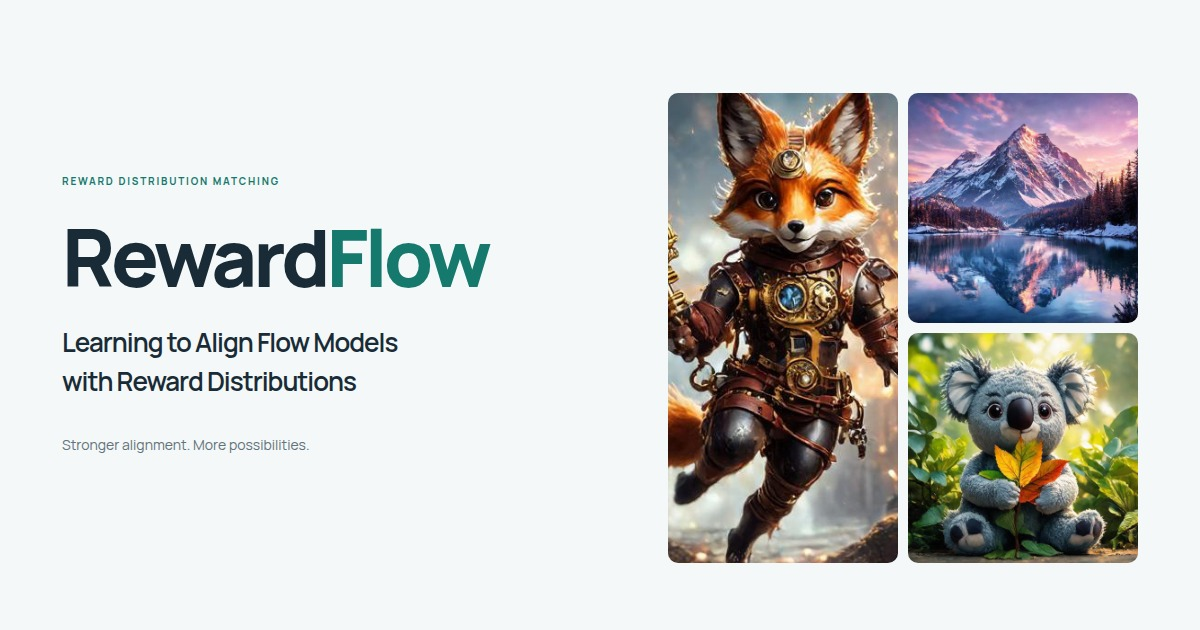
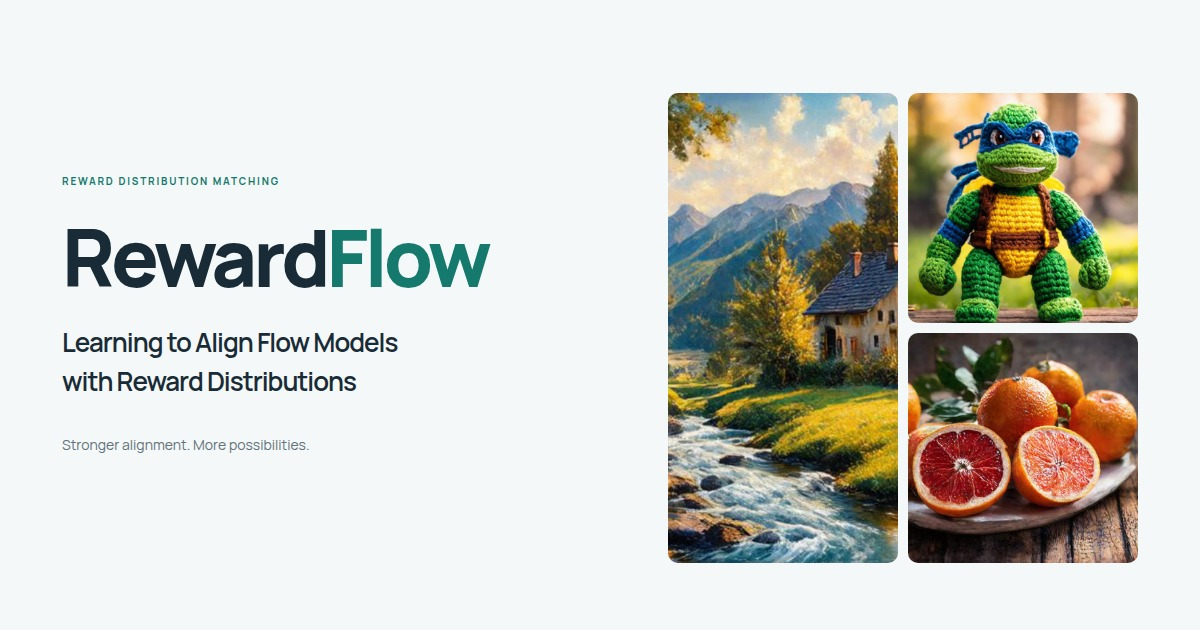
Move supplementary samples to hero and reorder comparison prompts

Changed region(s): [[0.555, 0.1206, 0.9558, 0.9048]]

diff --git a/index.html b/index.html
@@ -40,7 +40,7 @@
       <a class="wordmark" href="#top" aria-label="RewardFlow home"><svg class="brand-mark"><use href="#icon-flow"/></svg>Reward<span>Flow</span></a>
       <button class="menu-toggle" type="button" aria-label="Open navigation" aria-controls="main-nav" aria-expanded="false"><span></span><span></span></button>
       <nav id="main-nav" aria-label="Main navigation">
-        <a href="#overview">Overview</a><a href="#comparisons">Comparisons</a><a href="#method">Method</a><a href="#results">Results</a><a href="#gallery">Gallery</a>
+        <a href="#overview">Overview</a><a href="#comparisons">Comparisons</a><a href="#method">Method</a><a href="#results">Results</a>
       </nav>
       <a class="nav-paper" data-paper-link href="assets/paper/RewardFlow.pdf" target="_blank" rel="noopener">Read the paper <svg class="icon"><use href="#icon-diagonal"/></svg></a>
     </div>
@@ -67,11 +67,14 @@
       </div>
 
       <div class="hero-showcase container-wide" aria-label="Selected RewardFlow generations">
-        <button class="hero-image" data-lightbox="assets/images/fox-reward-2.jpg" data-caption="Steampunk fox · RewardFlow generation" aria-label="Enlarge the steampunk fox generation"><img src="assets/images/fox-reward-2.jpg" width="512" height="512" alt="A steampunk fox with brass gears and a golden key, leaping through a fantasy city" fetchpriority="high"><span>Imaginative detail <svg class="icon"><use href="#icon-expand"/></svg></span></button>
-        <button class="hero-image" data-lightbox="assets/images/mountain-reward-1.jpg" data-caption="Alpine lake · RewardFlow generation" aria-label="Enlarge the alpine lake generation"><img src="assets/images/mountain-reward-1.jpg" width="512" height="512" alt="A snow-capped mountain reflected in an alpine lake beneath a pink and violet sky" fetchpriority="high"><span>Vivid landscapes <svg class="icon"><use href="#icon-expand"/></svg></span></button>
-        <button class="hero-image hero-image-center" data-lightbox="assets/images/koala-reward-2.jpg" data-caption="Koala plush · RewardFlow generation" aria-label="Enlarge the koala generation"><img src="assets/images/koala-reward-2.jpg" width="512" height="512" alt="A soft gray koala plush holding a colorful leaf in lush green foliage" fetchpriority="high"><span>Natural textures <svg class="icon"><use href="#icon-expand"/></svg></span></button>
-        <button class="hero-image" data-lightbox="assets/images/cake-reward-2.jpg" data-caption="Orange almond cake · RewardFlow generation" aria-label="Enlarge the cake generation"><img src="assets/images/cake-reward-2.jpg" width="512" height="512" alt="Layered orange and almond cake with buttercream, citrus slices, and almonds" fetchpriority="high"><span>Fine-grained fidelity <svg class="icon"><use href="#icon-expand"/></svg></span></button>
-        <button class="hero-image" data-lightbox="assets/images/cottage.jpg" data-caption="Mountain cottage · RewardFlow generation from the supplementary gallery" aria-label="Enlarge the cottage generation"><img src="assets/images/cottage.jpg" width="681" height="680" alt="A sunlit mountain cottage beside a stream in a painterly landscape" fetchpriority="high"><span>Expressive styles <svg class="icon"><use href="#icon-expand"/></svg></span></button>
+        <button class="hero-image" data-lightbox="assets/images/cottage.jpg" data-caption="Mountain cottage · Supplementary RewardFlow sample" aria-label="Enlarge mountain cottage"><img src="assets/images/cottage.jpg" width="681" height="680" alt="Painterly cottage in a mountain valley with a sunlit stream" fetchpriority="high"><span>Worlds to wander <svg class="icon"><use href="#icon-expand"/></svg></span></button>
+        <button class="hero-image" data-lightbox="assets/images/knitted-turtle.jpg" data-caption="Knitted turtle · Supplementary RewardFlow sample" aria-label="Enlarge knitted turtle"><img src="assets/images/knitted-turtle.jpg" width="680" height="680" alt="Green and blue knitted turtle toy in warm sunlight" fetchpriority="high"><span>A softer kind of detail <svg class="icon"><use href="#icon-expand"/></svg></span></button>
+        <button class="hero-image" data-lightbox="assets/images/oranges.jpg" data-caption="Blood oranges · Supplementary RewardFlow sample" aria-label="Enlarge blood oranges"><img src="assets/images/oranges.jpg" width="340" height="341" alt="Blood oranges with vivid red interiors on a rustic wooden surface" fetchpriority="high"><span>Color you can almost taste <svg class="icon"><use href="#icon-expand"/></svg></span></button>
+        <button class="hero-image" data-lightbox="assets/images/castle.jpg" data-caption="Fantasy castle · Supplementary RewardFlow sample" aria-label="Enlarge fantasy castle"><img src="assets/images/castle.jpg" width="340" height="340" alt="A golden castle overlooking a river and misty mountain valley" fetchpriority="high"><span>Somewhere beyond the ordinary <svg class="icon"><use href="#icon-expand"/></svg></span></button>
+        <button class="hero-image" data-lightbox="assets/images/rabbits.jpg" data-caption="Storybook rabbits · Supplementary RewardFlow sample" aria-label="Enlarge storybook rabbits"><img src="assets/images/rabbits.jpg" width="340" height="340" alt="Two storybook rabbits holding a strawberry in a flower garden"><span>Small characters, big stories <svg class="icon"><use href="#icon-expand"/></svg></span></button>
+        <button class="hero-image" data-lightbox="assets/images/autumn.jpg" data-caption="Autumn waters · Supplementary RewardFlow sample" aria-label="Enlarge autumn waters"><img src="assets/images/autumn.jpg" width="680" height="680" alt="Golden morning light over an autumn wetland framed by trees"><span>A moment of quiet <svg class="icon"><use href="#icon-expand"/></svg></span></button>
+        <button class="hero-image" data-lightbox="assets/images/tea.jpg" data-caption="Morning tea · Supplementary RewardFlow sample" aria-label="Enlarge morning tea"><img src="assets/images/tea.jpg" width="340" height="340" alt="A warm tea set and pastries on a wooden tray"><span>Everyday, reimagined <svg class="icon"><use href="#icon-expand"/></svg></span></button>
+        <button class="hero-image" data-lightbox="assets/images/lemonade.jpg" data-caption="Citrus and mint · Supplementary RewardFlow sample" aria-label="Enlarge citrus and mint"><img src="assets/images/lemonade.jpg" width="340" height="340" alt="Iced lemonade with orange slices, lemon, and fresh mint"><span>Fresh perspectives <svg class="icon"><use href="#icon-expand"/></svg></span></button>
       </div>
       <div class="showcase-caption container-wide"><span><span class="caption-dot"></span> Generated with RewardFlow</span><span>One framework. Many possibilities. <a href="#comparisons" aria-label="Explore image comparisons">Explore <span aria-hidden="true">↓</span></a></span></div>
     </section>
@@ -97,10 +100,10 @@
         <div class="section-label">02 <span></span> SEE THE DIFFERENCE</div>
         <div class="section-heading"><div><h2>Same prompt.<br>More possibilities.</h2><p>Explore how RewardFlow preserves variation in composition, style, and appearance.</p></div><span class="subtle-label">SAMPLES FROM THE PAPER</span></div>
         <div class="prompt-tabs" role="group" aria-label="Choose a comparison prompt">
-          <button class="active" type="button" data-prompt="mountain" aria-pressed="true">Alpine lake</button><button type="button" data-prompt="fox" aria-pressed="false">Steampunk fox</button><button type="button" data-prompt="koala" aria-pressed="false">Koala plush</button><button type="button" data-prompt="cake" aria-pressed="false">Citrus cake</button><button type="button" data-prompt="portrait" aria-pressed="false">Crochet portrait</button><button type="button" data-prompt="pattern" aria-pressed="false">Illustrated pattern</button>
+          <button class="active" type="button" data-prompt="pattern" aria-pressed="true">Illustrated pattern</button><button type="button" data-prompt="portrait" aria-pressed="false">Crochet portrait</button><button type="button" data-prompt="mountain" aria-pressed="false">Alpine lake</button><button type="button" data-prompt="fox" aria-pressed="false">Steampunk fox</button><button type="button" data-prompt="koala" aria-pressed="false">Koala plush</button><button type="button" data-prompt="cake" aria-pressed="false">Citrus cake</button>
         </div>
         <div class="comparison-stage" aria-live="polite" aria-atomic="false">
-          <div class="prompt-text"><span>PROMPT</span><p id="prompt-text">Snow-capped peaks stand majestically above a serene lake, reflecting perfectly in its glassy surface as twilight hues paint the sky with soft pinks and purples.</p><span class="prompt-counter" id="prompt-counter">01 / 06</span></div>
+          <div class="prompt-text"><span>PROMPT</span><p id="prompt-text">Coffee and Donuts Seamless Vector Pattern Coffee and Donuts Seamless Vector Pattern early 20th century stock illustrations.</p><span class="prompt-counter" id="prompt-counter">01 / 06</span></div>
           <div class="comparison-row"><div class="row-label"><span class="method-dot baseline"></span><strong>Flow-GRPO</strong><span>Baseline</span></div><div class="sample-grid" id="flow-samples"></div></div>
           <div class="comparison-row ours"><div class="row-label"><span class="method-dot reward"></span><strong>RewardFlow</strong><span>Ours</span></div><div class="sample-grid" id="reward-samples"></div></div>
         </div>
@@ -142,26 +145,9 @@
       </div>
     </section>
 
-    <section id="gallery" class="section gallery-section">
-      <div class="container">
-        <div class="section-label">05 <span></span> MORE POSSIBILITIES</div>
-        <div class="section-heading"><div><h2>A little more of what flows.</h2><p>Selected RewardFlow generations from the paper’s supplementary gallery.</p></div><span class="subtle-label">CLICK TO EXPLORE</span></div>
-        <div class="gallery-grid">
-          <button class="gallery-item gallery-large" data-lightbox="assets/images/cottage.jpg" data-caption="Mountain cottage · Supplementary RewardFlow sample" aria-label="Enlarge mountain cottage"><img src="assets/images/cottage.jpg" width="681" height="680" loading="lazy" alt="Painterly cottage in a mountain valley with a sunlit stream"><span>Worlds to wander <svg class="icon"><use href="#icon-expand"/></svg></span></button>
-          <button class="gallery-item" data-lightbox="assets/images/knitted-turtle.jpg" data-caption="Knitted turtle · Supplementary RewardFlow sample" aria-label="Enlarge knitted turtle"><img src="assets/images/knitted-turtle.jpg" width="680" height="680" loading="lazy" alt="Green and blue knitted turtle toy in warm sunlight"><span>A softer kind of detail</span></button>
-          <button class="gallery-item" data-lightbox="assets/images/oranges.jpg" data-caption="Blood oranges · Supplementary RewardFlow sample" aria-label="Enlarge blood oranges"><img src="assets/images/oranges.jpg" width="340" height="341" loading="lazy" alt="Blood oranges with vivid red interiors on a rustic wooden surface"><span>Color you can almost taste</span></button>
-          <button class="gallery-item" data-lightbox="assets/images/castle.jpg" data-caption="Fantasy castle · Supplementary RewardFlow sample" aria-label="Enlarge fantasy castle"><img src="assets/images/castle.jpg" width="340" height="340" loading="lazy" alt="A golden castle overlooking a river and misty mountain valley"><span>Somewhere beyond the ordinary</span></button>
-          <button class="gallery-item" data-lightbox="assets/images/rabbits.jpg" data-caption="Storybook rabbits · Supplementary RewardFlow sample" aria-label="Enlarge storybook rabbits"><img src="assets/images/rabbits.jpg" width="340" height="340" loading="lazy" alt="Two storybook rabbits holding a strawberry in a flower garden"><span>Small characters, big stories</span></button>
-          <button class="gallery-item gallery-wide" data-lightbox="assets/images/autumn.jpg" data-caption="Autumn waters · Supplementary RewardFlow sample" aria-label="Enlarge autumn waters"><img src="assets/images/autumn.jpg" width="680" height="680" loading="lazy" alt="Golden morning light over an autumn wetland framed by trees"><span>A moment of quiet <svg class="icon"><use href="#icon-expand"/></svg></span></button>
-          <button class="gallery-item" data-lightbox="assets/images/tea.jpg" data-caption="Morning tea · Supplementary RewardFlow sample" aria-label="Enlarge morning tea"><img src="assets/images/tea.jpg" width="340" height="340" loading="lazy" alt="A warm tea set and pastries on a wooden tray"><span>Everyday, reimagined</span></button>
-          <button class="gallery-item" data-lightbox="assets/images/lemonade.jpg" data-caption="Citrus and mint · Supplementary RewardFlow sample" aria-label="Enlarge citrus and mint"><img src="assets/images/lemonade.jpg" width="340" height="340" loading="lazy" alt="Iced lemonade with orange slices, lemon, and fresh mint"><span>Fresh perspectives</span></button>
-        </div>
-      </div>
-    </section>
-
     <section id="resources" class="resource-section"><div class="container resource-inner"><div><svg class="brand-mark"><use href="#icon-flow"/></svg><h2>Explore RewardFlow.</h2><p>Read the full method, experiments, and supplementary results.</p></div><div class="resource-actions"><a class="button button-primary" data-paper-link href="assets/paper/RewardFlow.pdf" target="_blank" rel="noopener">Read the paper <svg class="icon"><use href="#icon-diagonal"/></svg></a><p id="code-status">Research code will be released on GitHub.</p></div></div></section>
 
-    <section id="citation" class="section citation-section"><div class="container citation-grid"><div><div class="section-label">06 <span></span> CITATION</div><h2>BibTeX</h2><p>If you find this work useful,<br>please consider citing it.</p></div><div class="citation-box"><div class="citation-header"><span>rewardflow.bib</span><button id="copy-citation" type="button"><svg class="icon"><use href="#icon-copy"/></svg> <span>Copy</span></button></div><pre id="bibtex">@misc{wei2026rewardflow,
+    <section id="citation" class="section citation-section"><div class="container citation-grid"><div><div class="section-label">05 <span></span> CITATION</div><h2>BibTeX</h2><p>If you find this work useful,<br>please consider citing it.</p></div><div class="citation-box"><div class="citation-header"><span>rewardflow.bib</span><button id="copy-citation" type="button"><svg class="icon"><use href="#icon-copy"/></svg> <span>Copy</span></button></div><pre id="bibtex">@misc{wei2026rewardflow,
   title  = {RewardFlow: Learning to Align Flow Models
             with Reward Distributions},
   author = {Qingyan Wei and Guangzhao Li and Xiaohong Liu

diff --git a/assets/data.js b/assets/data.js
@@ -4,12 +4,12 @@
 // and table/single_reward.tex. No scores have been recomputed or estimated.
 window.REWARDFLOW_DATA = {
   prompts: {
+    pattern: {name: "Illustrated pattern", text: "Coffee and Donuts Seamless Vector Pattern Coffee and Donuts Seamless Vector Pattern early 20th century stock illustrations."},
+    portrait: {name: "Crochet portrait", text: "Brimmed Hat Crochet Winter Beanie With Crochet by YoureHooked."},
     mountain: {name: "Alpine lake", text: "Snow-capped peaks stand majestically above a serene lake, reflecting perfectly in its glassy surface as twilight hues paint the sky with soft pinks and purples."},
     fox: {name: "Steampunk fox", text: "A steampunk fox, adorned with brass cogs and leather straps, gracefully winds its own mechanical body with a golden key, suspended mid-leap in a whimsical dance of invention and fantasy."},
     koala: {name: "Koala plush", text: "Cuddly gray koala stuffie sitting amidst green foliage, holding a vibrant leaf between its paws, with soft fur details and expressive black eyes."},
-    cake: {name: "Citrus cake", text: "Vanilla Orange Almond Cake Recipe. Vanilla orange and almond soaked cake with layers of vanilla orange almond buttercream."},
-    portrait: {name: "Crochet portrait", text: "Brimmed Hat Crochet Winter Beanie With Crochet by YoureHooked."},
-    pattern: {name: "Illustrated pattern", text: "Coffee and Donuts Seamless Vector Pattern Coffee and Donuts Seamless Vector Pattern early 20th century stock illustrations."}
+    cake: {name: "Citrus cake", text: "Vanilla Orange Almond Cake Recipe. Vanilla orange and almond soaked cake with layers of vanilla orange almond buttercream."}
   },
   metrics: ["hps", "pick", "ir", "gen", "ocr", "aes"],
   metricNames: ["HPS-v2.1", "PickScore", "ImageReward", "GenEval", "OCR", "Aesthetic"],

diff --git a/assets/style.css b/assets/style.css
@@ -29,4 +29,10 @@ dialog{border:0;padding:0;max-width:none;max-height:none;width:100vw;height:100d
 @media(min-width:621px){.authors{display:grid;grid-template-columns:repeat(4,max-content);column-gap:23px;row-gap:5px}}
 @media(max-width:620px){h1{font-size:clamp(40px,12.6vw,59px);letter-spacing:-2.8px}.hero-actions .button{white-space:nowrap}.hero-actions .button-detail{white-space:nowrap}.hero-actions{gap:6px}.hero-actions .button{padding-inline:11px}}
 @media(max-width:359px){.hero-actions .button{padding-inline:8px;font-size:10px;gap:5px}.hero-actions .button-detail{font-size:7px;padding-left:4px}.hero-actions .button-secondary:last-child{padding-inline:8px}.nav-paper{font-size:9px}.nav-wrap{padding-inline:15px;gap:10px}.hero-image>span{font-size:7px}}
+/* Supplementary samples now appear together below the paper title. */
+.hero-showcase{grid-template-columns:repeat(4,minmax(0,1fr));gap:12px}
+.hero-showcase .hero-image:nth-child(n){display:block;transform:none;aspect-ratio:1.25}
+.showcase-caption{margin-top:18px}
+@media(max-width:850px){.hero-showcase{gap:8px}.hero-showcase .hero-image>span{font-size:8px}}
+@media(max-width:620px){.hero-showcase{grid-template-columns:repeat(2,minmax(0,1fr));gap:8px}.hero-showcase .hero-image:nth-child(n){aspect-ratio:1.12}.hero-showcase .hero-image>span{font-size:8px;padding:29px 10px 9px}.hero-showcase .hero-image>span .icon{display:none}}
 @media(prefers-reduced-motion:reduce){html{scroll-behavior:auto}*,*::before,*::after{animation:none!important;transition:none!important}}

diff --git a/assets/app.js b/assets/app.js
@@ -49,7 +49,7 @@
     const button = event.target.closest("[data-lightbox]");
     if (!button) return;
     returnFocus = button;
-    const group = button.closest(".hero-showcase, .comparison-stage, .gallery-grid, .method-figure");
+    const group = button.closest(".hero-showcase, .comparison-stage, .method-figure");
     activeImages = group ? $$("[data-lightbox]", group).filter(el => el.getClientRects().length > 0) : [button];
     showImage(activeImages.indexOf(button));
     dialog.showModal();
@@ -105,7 +105,7 @@
     });
   }
   $$("[data-prompt]").forEach(button => button.addEventListener("click", () => renderPrompt(button.dataset.prompt)));
-  renderPrompt("mountain");
+  renderPrompt(Object.keys(data.prompts)[0]);
 
   let backbone = "sd35";
   function renderResults(announce = false) {

diff --git a/README.md b/README.md
@@ -8,7 +8,7 @@ An English academic project page for **RewardFlow: Learning to Align Flow Models
 - Six prompt comparisons, using the paper's original 512-pixel image samples.
 - Original method figure with an accessible image viewer.
 - Results for SD3.5-M and FLUX.1-dev across five reward settings.
-- Diversity results, the user study, and supplementary image gallery.
+- Diversity results and the user study, with eight supplementary generations in the opening showcase.
 - BibTeX copy and download, responsive navigation, and keyboard support.
 
 ## Published site
